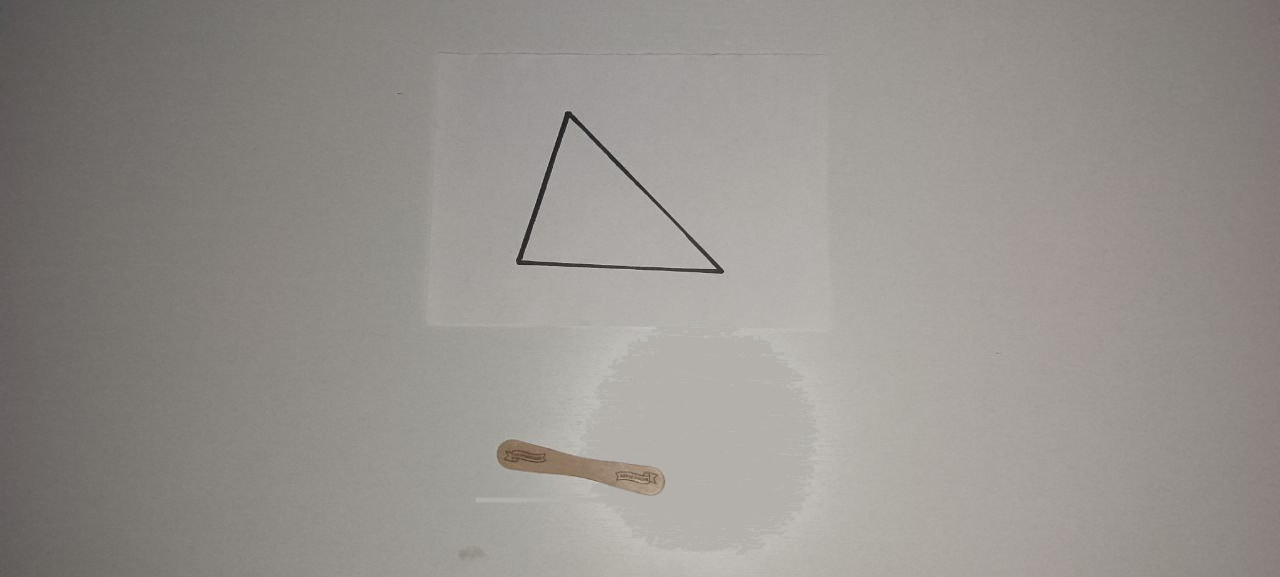
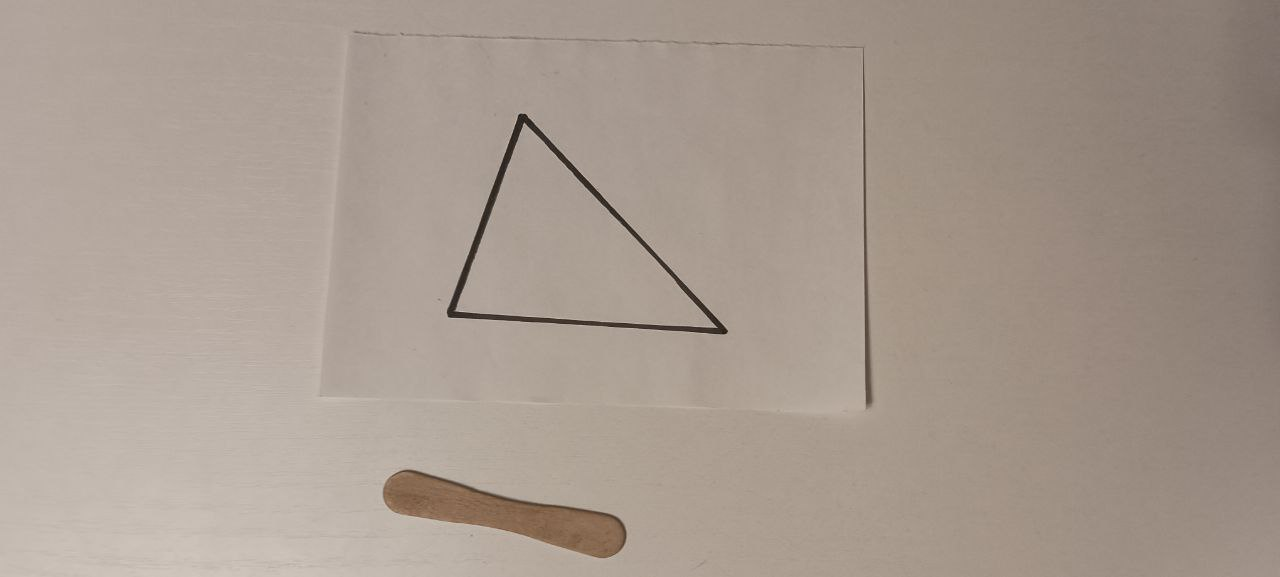
Revert "Recaptured some shots and improved object recognition"
This reverts commit 9649558e7a3a3f99e8f2068a9765ce5830523e6c.

diff --git a/intelligent_placer_lib/object.py b/intelligent_placer_lib/object.py
@@ -52,10 +52,6 @@ class object:
         clusters_weight = [x / total_sum for x in clusters_weight]
         self.dominant_colors = [(clusters_weight[index], [float(x[0]), float(x[1]), float(x[2])]) for index, x in enumerate(kmeans.cluster_centers_)]
         self.dominant_colors.sort(key = lambda x: -x[0])
-        #medium = np.median(self.hull, axis=0).astype(np.int)
-        #self.hull = self.hull - medium
-
-    def centerize(self):
         medium = np.median(self.hull, axis=0).astype(np.int)
         self.hull = self.hull - medium
 
@@ -89,8 +85,8 @@ class object:
                                 enumerate(kmeans.cluster_centers_)]
         new_object.dominant_colors.sort(key=lambda x: -x[0])
 
-        #medium = np.median(new_object.hull, axis=0).astype(np.int)
-        #new_object.hull = new_object.hull - medium
+        medium = np.median(new_object.hull, axis=0).astype(np.int)
+        new_object.hull = new_object.hull - medium
         return new_object
 
 # this function will load dataset
@@ -106,12 +102,11 @@ def detect_objects(image, objects_dataset):
     rezult = []
 
     # lets find contours on our image
-    image_norm = utils.normalize_image(image)
-    img_gray = cv2.cvtColor(image_norm, cv2.COLOR_BGR2GRAY)
+    img_gray = cv2.cvtColor(image, cv2.COLOR_BGR2GRAY)
     img_gauss = cv2.GaussianBlur(img_gray, (5, 5), 0)
 
     #threshold image
-    res, img_threshold = cv2.threshold(img_gauss, 230, 255, cv2.THRESH_BINARY)
+    res, img_threshold = cv2.threshold(img_gauss, 123, 255, cv2.THRESH_BINARY)
 
     # find countours on binary thresholded image
     contours, hierarchy = cv2.findContours(image=img_threshold, mode=cv2.RETR_TREE, method=cv2.CHAIN_APPROX_NONE)
@@ -120,8 +115,7 @@ def detect_objects(image, objects_dataset):
     convex_contours = []
     for i in range(len(contours)):
         if (cv2.contourArea(contours[i]) <= 0.5 * img_threshold.shape[0] * img_threshold.shape[1] and
-            cv2.contourArea(contours[i]) >= 0.002 * img_threshold.shape[0] * img_threshold.shape[1] and
-            hierarchy[0][hierarchy[0][i][3]][3] == -1):
+            cv2.contourArea(contours[i]) >= 0.002 * img_threshold.shape[0] * img_threshold.shape[1]):
             convex_contours.append(cv2.convexHull(contours[i]))
 
     # add each of them as a contour
@@ -157,9 +151,9 @@ def detect_objects(image, objects_dataset):
             cv2.imshow("Object", obj.image)
             cv2.waitKey(0)
 
-        #if (index_min != 0):
-        rezult.append(obj)
-        new_contours.append(contour)
+        if (index_min != 0):
+            rezult.append(obj)
+            new_contours.append(contour)
 
     if (DEBUG_OBJECTS):
         cv2.drawContours(image=image, contours=new_contours, contourIdx=-1, color=(0, 255, 0), thickness=2,

diff --git a/intelligent_placer_lib/utils.py b/intelligent_placer_lib/utils.py
@@ -117,20 +117,3 @@ def rgb_to_hsv(r, g, b):
         s = (df/mx)*100
     v = mx*100
     return h, s, v
-
-def normalize_image(img):
-    rgb_planes = cv2.split(img)
-
-    result_planes = []
-    result_norm_planes = []
-    for plane in rgb_planes:
-        dilated_img = cv2.dilate(plane, np.ones((7, 7), np.uint8))
-        bg_img = cv2.medianBlur(dilated_img, 21)
-        diff_img = 255 - cv2.absdiff(plane, bg_img)
-        norm_img = cv2.normalize(diff_img, None, alpha=0, beta=255, norm_type=cv2.NORM_MINMAX, dtype=cv2.CV_8UC1)
-        result_planes.append(diff_img)
-        result_norm_planes.append(norm_img)
-
-    result = cv2.merge(result_planes)
-    result_norm = cv2.merge(result_norm_planes)
-    return result_norm

diff --git a/intelligent_placer_lib/intelligent_placer.py b/intelligent_placer_lib/intelligent_placer.py
@@ -50,8 +50,6 @@ def check_image(path_to_image_on_local_computer):
             else:
                 return False      
 
-    for obj in objects:
-        obj.centerize()
     #check if each object can be placed
     for obj in objects:
         if not place_one_object(obj.hull, con.hull):

diff --git a/README.md b/README.md
@@ -27,7 +27,6 @@
 - Объекты и многоугольник должны целиком помещаться на фото
 - Объекты должны распологаться вне многоугольника
 - Многоугольник задаётся черным маркером на белом листе бумаги.
-- Тени от объектов будут рассмотрены как часть этих объектов.
 
 ### Фотометрические
 - фотографии должны быть в формате *\*.jpg*

diff --git a/test_cases/README.md b/test_cases/README.md
@@ -75,7 +75,7 @@
 Ответ: True
 
 ![test 17](17.jpg "test 17")
-Ответ: True
+Ответ: False
 
 ![test 18](18.jpg "test 18")
 Ответ: True
